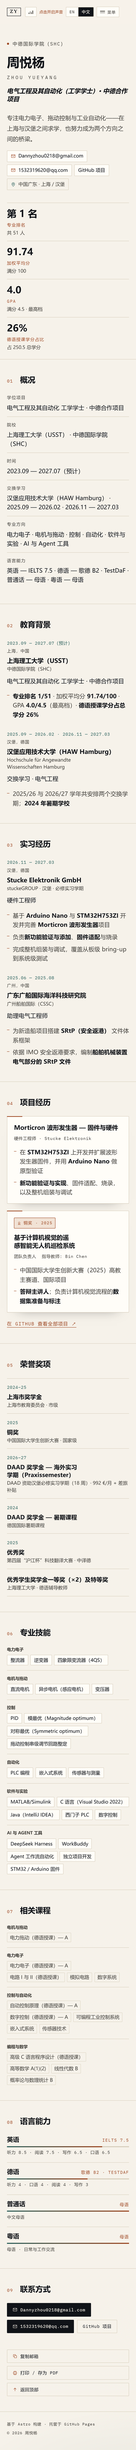
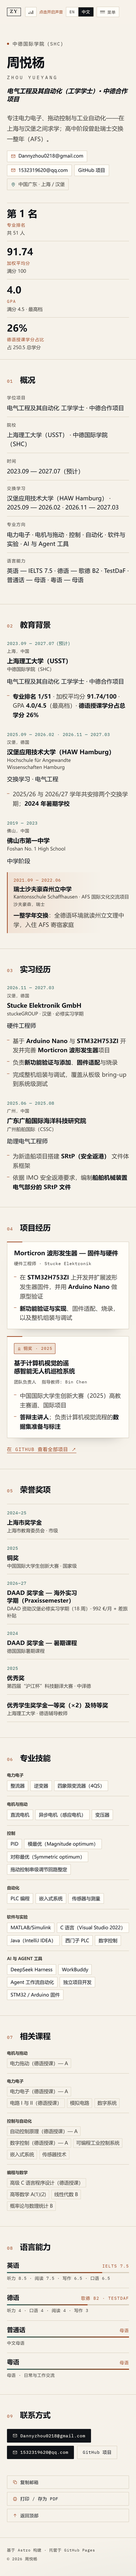
content: merge the Swiss exchange year into the Foshan No.1 High School period; refresh screenshots

diff --git a/src/styles/global.css b/src/styles/global.css
@@ -806,6 +806,53 @@ html[lang^='zh'] .stat-value {
   background: var(--copper);
 }
 
+/* Nested episode inside a period (e.g. the Swiss exchange year). */
+.entry-subentry {
+  margin-top: 1.1rem;
+  padding: 0.7rem 0 0.7rem 1.05rem;
+  border-left: 2px solid var(--copper);
+  background: linear-gradient(90deg, var(--copper-wash), rgba(241, 226, 213, 0) 78%);
+}
+
+.entry-subentry-period {
+  font-family: var(--font-mono);
+  font-size: 0.78rem;
+  letter-spacing: 0.04em;
+  color: var(--copper);
+}
+
+.entry-subentry-org {
+  margin-top: 0.2rem;
+  font-size: var(--step-0);
+  font-weight: 600;
+  line-height: 1.35;
+}
+
+.entry-subentry-org-sub {
+  display: block;
+  margin-top: 0.1rem;
+  font-size: var(--step--1);
+  font-weight: 400;
+  line-height: 1.4;
+  color: var(--muted);
+}
+
+.entry-subentry-place {
+  margin-top: 0.1rem;
+  font-family: var(--font-mono);
+  font-size: 0.76rem;
+  letter-spacing: 0.06em;
+  text-transform: uppercase;
+  color: var(--muted);
+}
+
+.entry-subentry-text {
+  margin-top: 0.4rem;
+  font-size: var(--step-0);
+  line-height: 1.6;
+  color: var(--muted);
+}
+
 /* --- projects ------------------------------------------------------------- */
 
 .projects {

diff --git a/src/data/resume.en.ts b/src/data/resume.en.ts
@@ -92,18 +92,17 @@ export const en: Resume = {
       org: 'Foshan No. 1 High School',
       orgSub: 'Foshan, Guangdong',
       place: 'Foshan, China',
-      degree: 'High school — senior year',
-      period: 'Sep 2022 — Jun 2023',
+      degree: 'Secondary education',
+      period: '2019 — 2023',
       bullets: [],
-    },
-    {
-      org: 'Kantonsschule Schaffhausen',
-      orgSub: 'AFS Intercultural Programs · Switzerland',
-      place: 'Schaffhausen, Switzerland',
-      degree: 'One-year high-school exchange',
-      period: 'Sep 2021 — Jun 2022',
-      bullets: [
-        '**Full academic year abroad** at a Swiss state grammar school, German-language immersion, hosted by an AFS host family',
+      subEntries: [
+        {
+          period: 'Sep 2021 — Jun 2022',
+          org: 'Kantonsschule Schaffhausen',
+          orgSub: 'AFS Intercultural Programs · Switzerland',
+          place: 'Schaffhausen, Switzerland',
+          text: '**One-year exchange** at a Swiss state grammar school — German-language immersion, living with an AFS host family',
+        },
       ],
     },
   ],

diff --git a/src/data/resume.zh.ts b/src/data/resume.zh.ts
@@ -92,18 +92,17 @@ export const zh: Resume = {
       org: '佛山市第一中学',
       orgSub: 'Foshan No. 1 High School',
       place: '佛山，中国',
-      degree: '高中阶段',
-      period: '2022.09 — 2023.06',
+      degree: '中学阶段',
+      period: '2019 — 2023',
       bullets: [],
-    },
-    {
-      org: '瑞士沙夫豪森州立中学（Kantonsschule Schaffhausen）',
-      orgSub: 'AFS 国际文化交流项目',
-      place: '沙夫豪森，瑞士',
-      degree: '一年制高中交换',
-      period: '2021.09 — 2022.06',
-      bullets: [
-        '**在瑞士州立文理中学完成一整学年**，全德语环境，入住 AFS 寄宿家庭',
+      subEntries: [
+        {
+          period: '2021.09 — 2022.06',
+          org: '瑞士沙夫豪森州立中学',
+          orgSub: 'Kantonsschule Schaffhausen · AFS 国际文化交流项目',
+          place: '沙夫豪森，瑞士',
+          text: '**一整学年交换**：全德语环境就读州立文理中学，入住 AFS 寄宿家庭',
+        },
       ],
     },
   ],

diff --git a/src/data/types.ts b/src/data/types.ts
@@ -48,6 +48,20 @@ export interface EducationEntry {
   degree: string;
   period: string;
   bullets: string[];
+  /**
+   * A nested episode inside this period (e.g. an exchange year that happened
+   * while enrolled at the school above). Rendered as an indented highlight.
+   */
+  subEntries?: EducationSubEntry[];
+}
+
+export interface EducationSubEntry {
+  period: string;
+  org: string;
+  orgSub?: string;
+  place?: string;
+  /** Rich text, `**bold**` supported. */
+  text?: string;
 }
 
 export interface ExperienceEntry {
